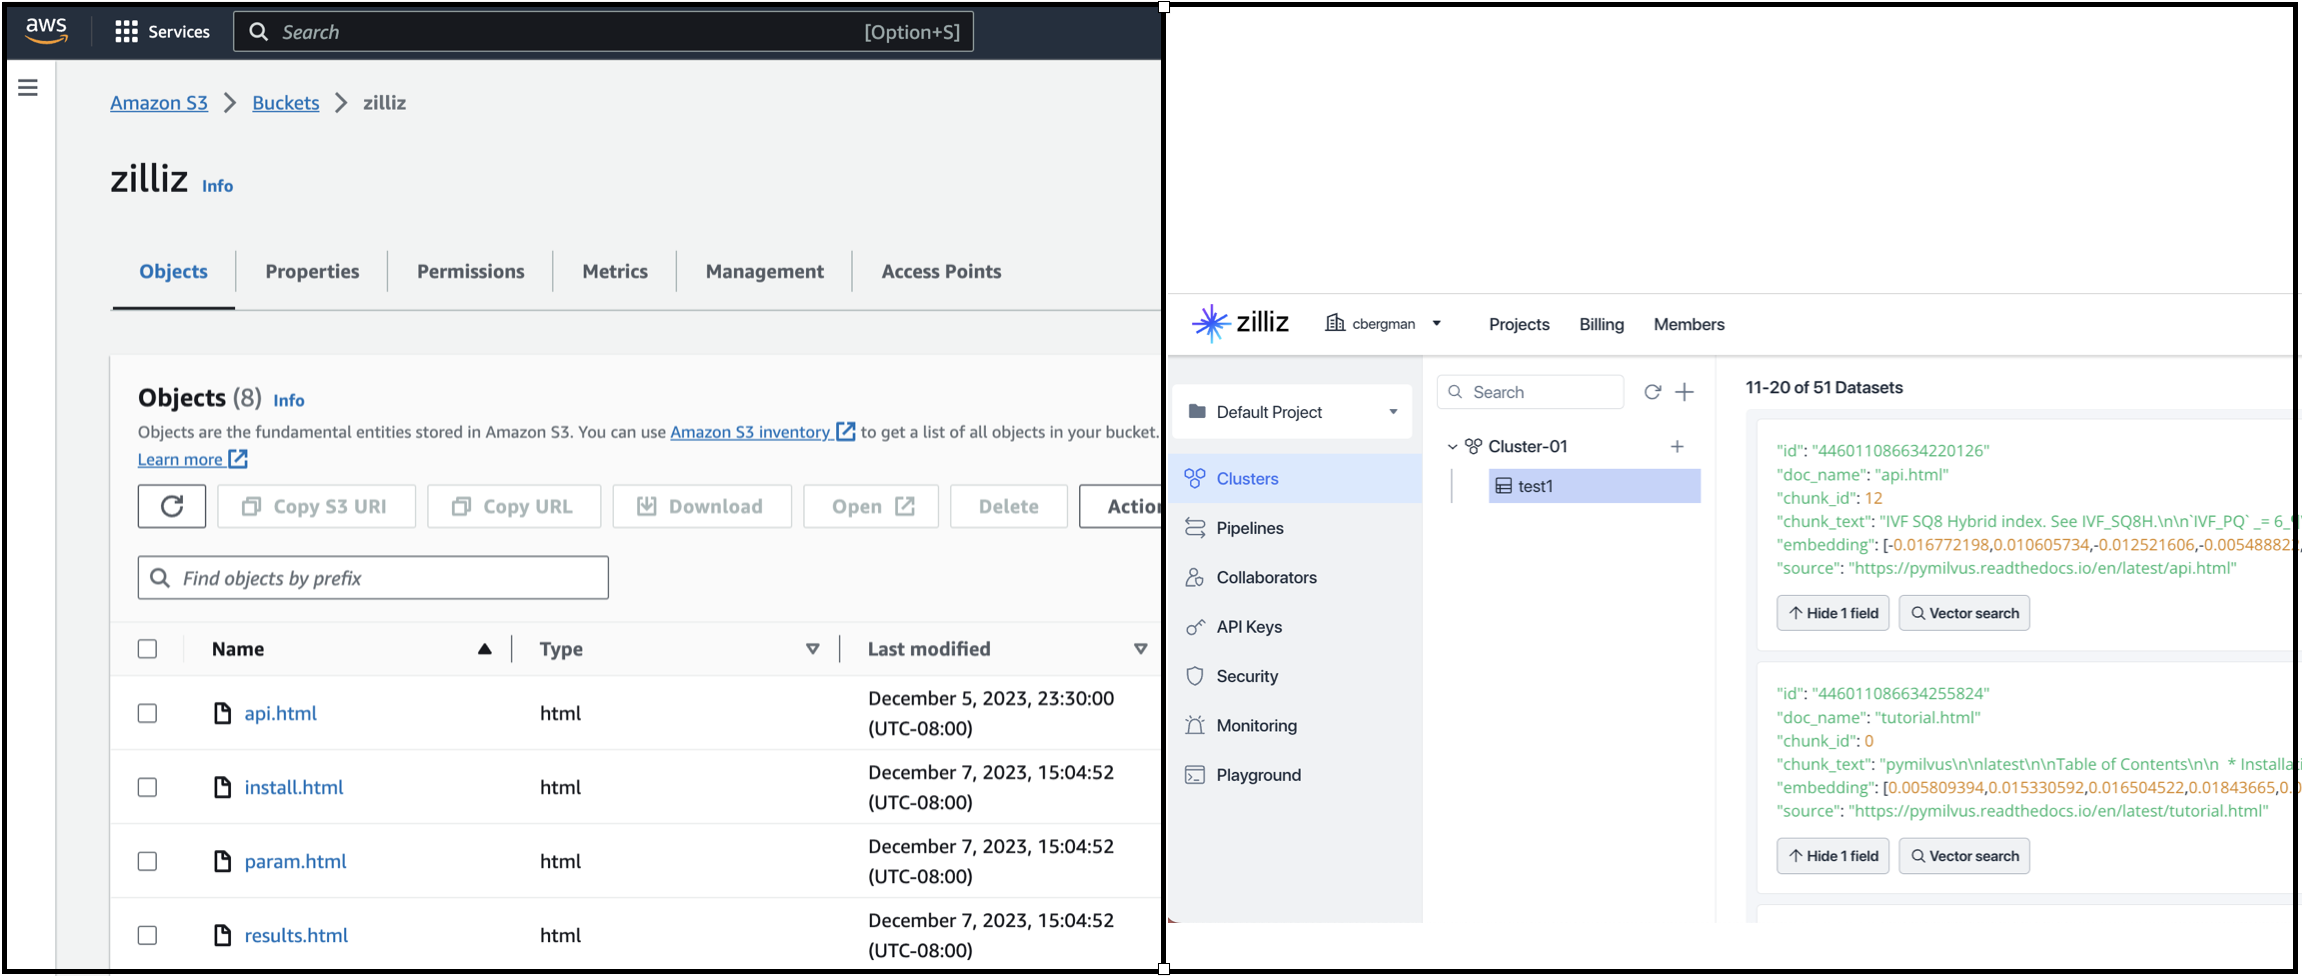
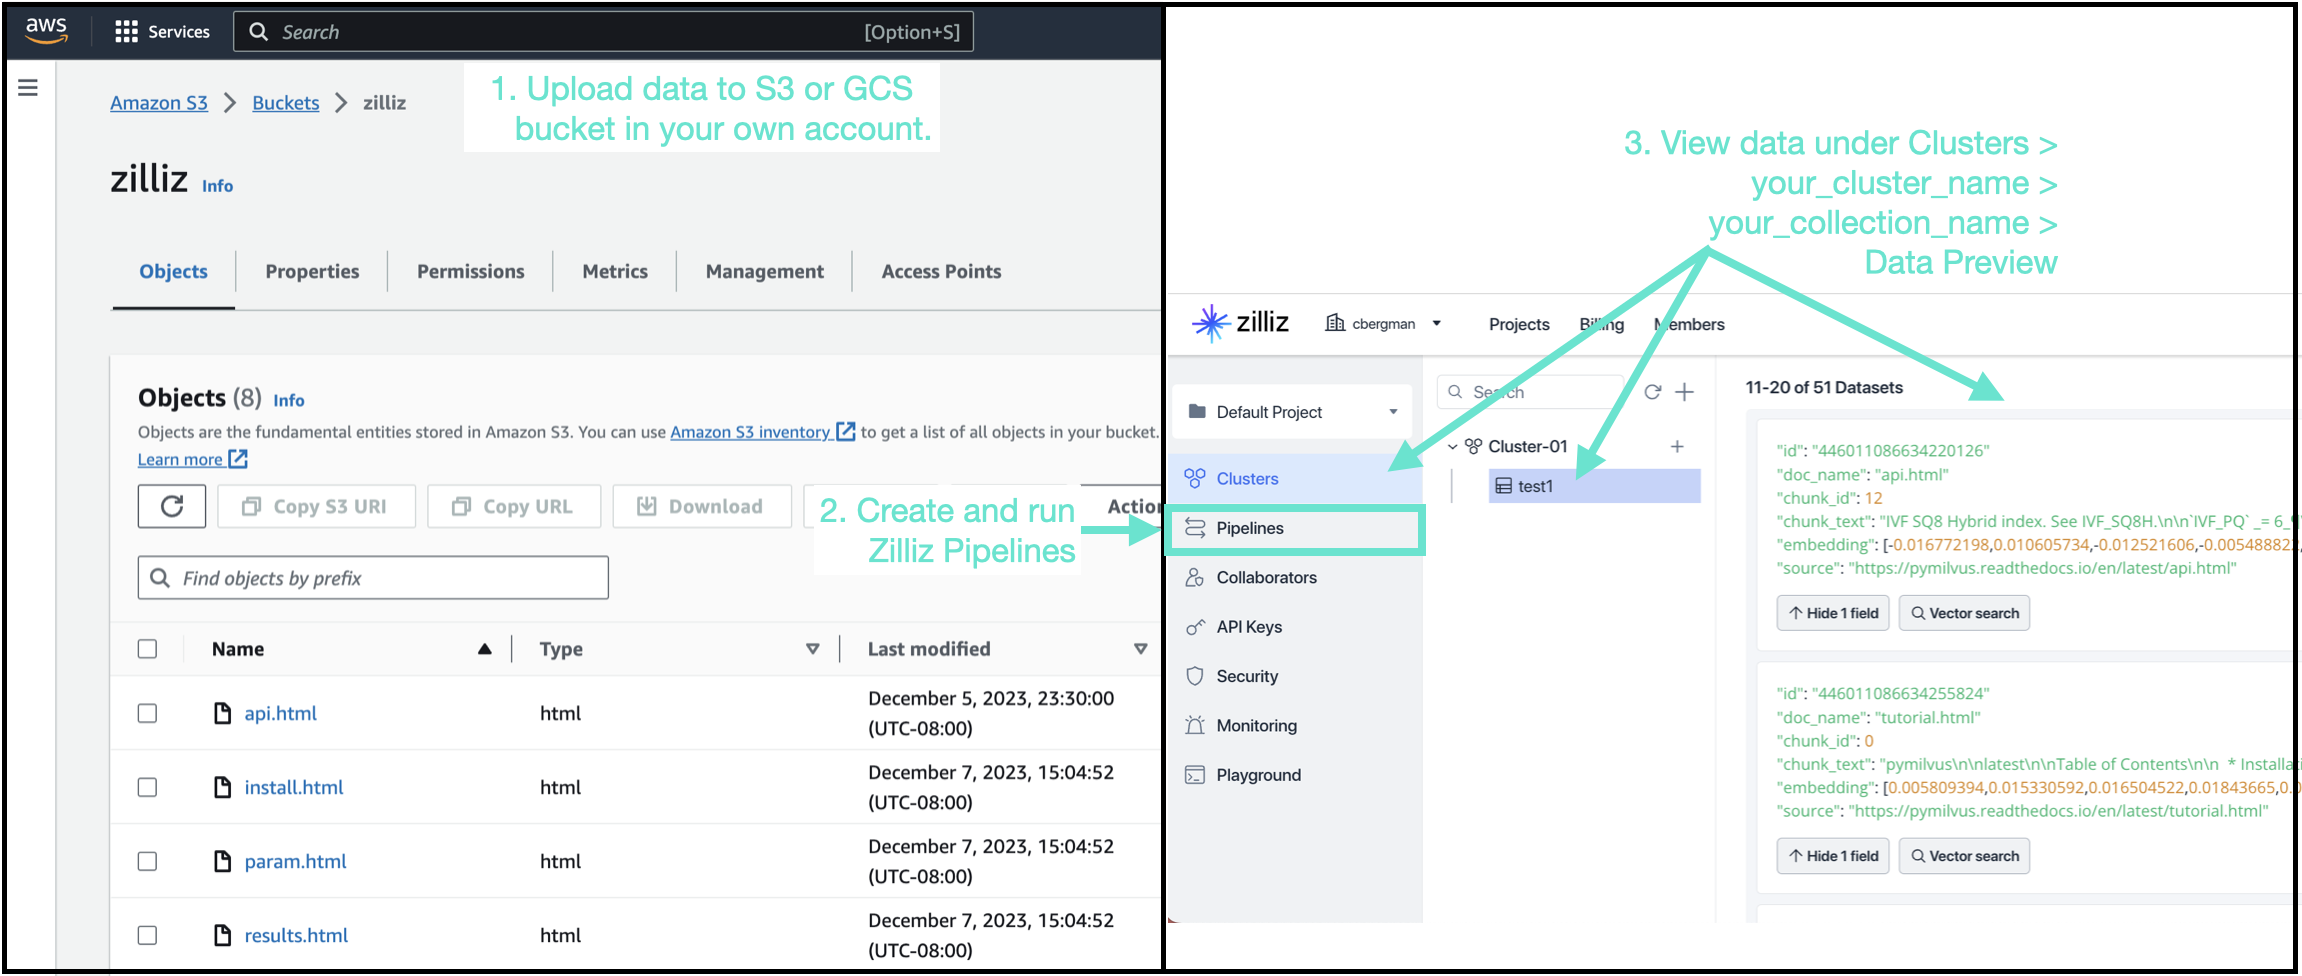
Replace context_length with tokens=3chars, move functions from notebook to utils, update the zilliz pipelines image

diff --git a/bootcamp/RAG/readthedocs_utilities.py b/bootcamp/RAG/readthedocs_utilities.py
@@ -1,0 +1,87 @@
+
+
+##########
+# Functions to process Milvus Search API responses.
+##########
+
+# Parse out the answer and context metadata from Milvus Search response.
+def assemble_answer_sources(answer, context_metadata):
+    """Assemble the answer and grounding sources into a string"""
+    grounded_answer = f"Answer: {answer}\n"
+    grounded_answer += "Grounding sources and citations:\n"
+
+    for metadata in context_metadata:
+        try:
+            grounded_answer += f"'h1': {metadata['h1']}, 'h2':{metadata['h2']}\n"
+        except:
+            pass
+        try:
+            grounded_answer += f"'source': {metadata['source']}"
+        except:
+            pass
+        
+    return grounded_answer
+
+# Stuff answers into a context string and stuff metadata into a list of dicts.
+def assemble_retrieved_context(retrieved_results, num_shot_answers=3):
+    
+    # Assemble the context as a stuffed string.
+    context = ""
+    i = 1
+    for r in retrieved_results[0]:
+        text = r.entity.text
+        if i <= num_shot_answers:  # only first n results
+            context += f"{text} "
+        i += 1
+    print(f"Length of context: {len(context)}")
+
+    # Also save the context metadata to retrieve along with the answer.
+    context_metadata = []
+    i = 1
+    for r in retrieved_results[0]:
+        if i <= num_shot_answers:
+            context_metadata.append({
+                "h1": r.entity.h1,
+                "h2": r.entity.h2,
+                "source": r.entity.source,
+            })
+        i += 1
+
+    return context, context_metadata
+
+
+##########
+# Functions to make OpenAI API calls and process responses.
+##########
+
+# Parse out the answer from an OpenAI API response.
+def prepare_response(response):
+    return response["choices"][-1]["message"]["content"]
+
+# Make a request to the OpenAI API to generate a response. 
+def generate_response(
+    llm, temperature=0.0, 
+    grounding_sources=None,
+    system_content="", assistant_content="", user_content=""):
+    """Generate response from an LLM."""
+
+    try:
+        response = openai.ChatCompletion.create(
+            model=llm,
+            temperature=temperature,
+            api_key=openai.api_key,
+            messages=[
+                {"role": "system", "content": system_content},
+                {"role": "assistant", "content": assistant_content},
+                {"role": "user", "content": user_content},
+            ],
+        )
+        answer = prepare_response(response=response)
+    
+        # Add the grounding sources and citations.
+        answer = assemble_answer_sources(answer, grounding_sources)
+        return answer
+
+    except Exception as e:
+        print(f"Exception: {e}")
+    return ""
